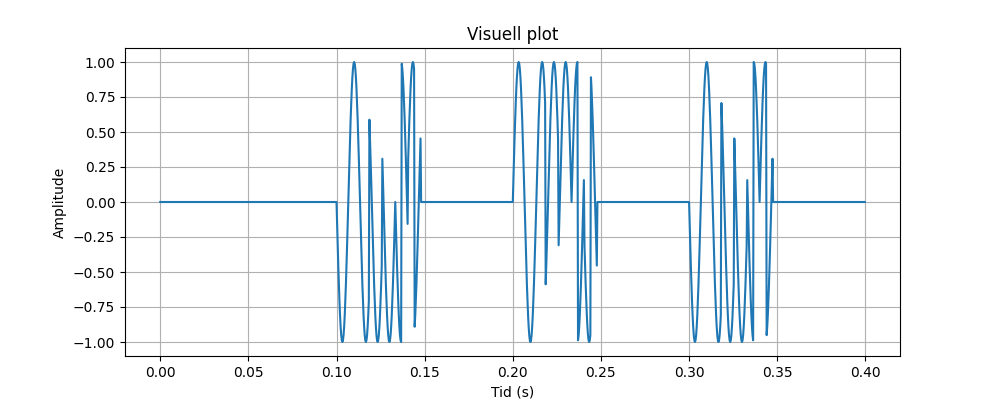
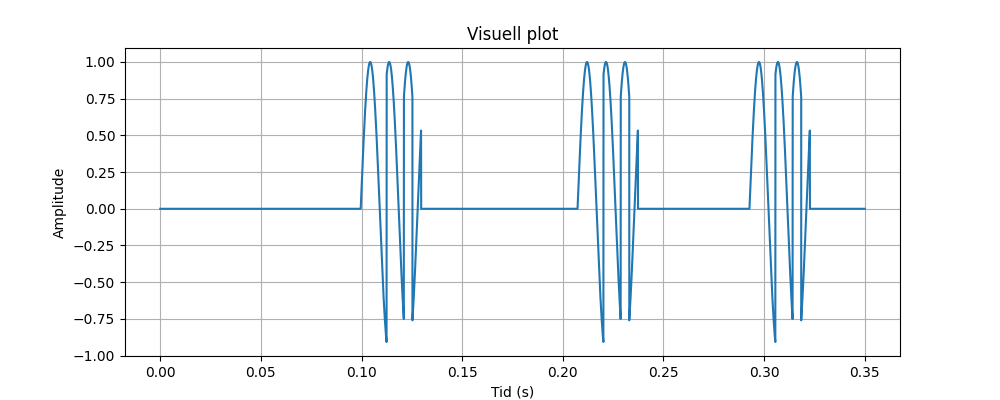
Har høyt sannsynlig fungerende jitter

diff --git a/mattefunksjoner.py b/mattefunksjoner.py
@@ -4,7 +4,7 @@ from scipy.signal import square
 from scipy.signal import chirp
 import random
 
-def globale_variabler(Fs,F,Pri,Prf,Dc,T,N):
+def globale_variabler(Fs,F,Pri,Prf,Dc,T,N,mønster):
     #setter global samplingsfrekvens
     global fs
     fs = Fs
@@ -59,34 +59,77 @@ def globale_variabler(Fs,F,Pri,Prf,Dc,T,N):
     global t
     t = np.arange(0, T, 1 / fs)
     
-    global barker_lengde
-    barker_lengde = 7
+    #Definerer varighet
+    global t_tot 
+    t_tot = T
+    
     
     global n 
     n = N
     
+    global m 
+    m = mønster
+    
+# #Funksjon som lager en helt standard sinusbølge
+# def sinus_bølge():
+#     # Genererer sinusbølge
+#     sinus_bølge = np.sin(2 * np.pi * f * t)
+#     #Returnerer den genererte sinusbølgen
+#     modulert_bølge = sinus_bølge * firkantpuls()
+#     return modulert_bølge
+
 #Funksjon som lager en helt standard sinusbølge
 def sinus_bølge():
-    # Genererer sinusbølge
-    sinus_bølge = np.sin(2 * np.pi * f * t)
-    #Returnerer den genererte sinusbølgen
-    modulert_bølge = sinus_bølge * firkantpuls()
-    return modulert_bølge
+    firkant_bølge = firkantpuls()  # Hent firkantpulsen for å styre aktivering
+    sinus_varighet = pwt  # Varigheten er det samme som tiden til en pulsbredde
+    
+    # Initier sinusbølgen
+    sinus_bølge = np.zeros_like(t)
+
+    # Finn starten av hver firkantpuls-syklus
+    syklus_starter = np.where(np.diff((firkant_bølge != 0).astype(int)) == 1)[0] + 1
+
+    # Iterer over hver syklus og generer sinus som starter på nytt
+    for start in syklus_starter:
+        slutt = start + int(sinus_varighet * fs)
+        slutt = min(slutt, len(t))  # Sørg for at vi ikke går utenfor tidsaksen
+        # Beregn tidsvinduet for sinus innenfor denne syklusen
+        lokal_t = t[:slutt - start] - t[start]
+        sinus_bølge[start:slutt] = np.sin(2 * np.pi * f * lokal_t)
+
+    return sinus_bølge
 
 #Funksjon som genererer en firkantpuls. Frekvens og duty cycle defineres av variablene i inputen. Hvis ingen 
 #ønskede verdier er gitt, settes det forhåndsdefinerte verdier.
 def firkantpuls():  
-    #Generering av firkantpuls. Frekvensen defineres av prf/pri, og duty cycle styres av ønsket verdi.
-    #Adderer med 1, og dividerer med 2 for å sette pulsen på 1 (på), og deretter 0 (av). 
-    #Dette for å kunne skru signalet av og på, og sende pulser.
-    firkantpuls = (square(2 * np.pi * f_firkant * t, duty=dc)+1)/2
+    if m == 'jitter':
+            # Beregn perioden og pulsbredden
+        jitter_prosent = 0.2    
+        
+        periode = 1 / f_firkant
+        puls_bredde = dc * periode
+
+        # Generer tidsvektor
+        t_lokal = np.linspace(0, t_tot, int(fs * t_tot), endpoint=False)
+
+        # Start- og sluttidspunkter for hver puls med jitter
+        start_tider = np.arange(0, t_tot, periode)
+        jitter = np.random.uniform(-jitter_prosent * periode, jitter_prosent * periode, size=len(start_tider))
+        start_tider_jittered = start_tider + jitter
+
+        # Generer firkantpuls
+        firkantpuls = np.zeros_like(t_lokal)
+        for start_tid in start_tider_jittered:
+            start_idx = int(start_tid * fs)
+            slutt_idx = int((start_tid + puls_bredde) * fs)
+            if start_idx < len(t_lokal):
+                firkantpuls[start_idx:slutt_idx] = 1
+    else:
+        firkantpuls = (square(2 * np.pi * f_firkant * t, duty=dc)+1)/2
+
+
     return firkantpuls
 
-def jitter():
-    print('Her skal det komme en jitterfunksjon')
-    
-def stagger():
-    print('Her skal det komme en staggerfunksjon')
 
 # Funksjon for en pulskodet bølge. Chirp bølge
 def chirp_bølge():
@@ -129,16 +172,12 @@ def barker_kode(n):
     return barker_sekvens[n]
 
 
-
-    return combined_wave
-
-# Funksjon som genererer et barker kodet signal
 def barker_bølge():
     barker_sekvens = barker_kode(n)  # Hent Barker-koden og lagrer en variant av den
     firkant_bølge = firkantpuls()  # Hent firkantpulsen for å styre aktivering
     barker_varighet = pwt  # Varigheten til en Barker-sekvens er lik en pulsbredde
                            # Samme tankegang som med Chirp
-
+                           
     # Initier Barker-signalet
     barker_bølge = np.zeros_like(t)
 
@@ -159,8 +198,43 @@ def barker_bølge():
             bit_slutt = min(bit_start + samples_per_bit, slutt)
             barker_bølge[bit_start:bit_slutt] = bit
 
-    barker_bølge = barker_bølge * sinus_bølge()
+        # Generer lokal sinusbølge som starter på nytt for hver firkantpuls-syklus
+        lokal_sinus_bølge = np.sin(2 * np.pi * f * (t[start:slutt] - t[start]))  # Tidsforskyvning for synkronisering
+
+        # Multiplicer barker_bølge med den lokale sinusbølgen
+        barker_bølge[start:slutt] = barker_bølge[start:slutt] * lokal_sinus_bølge
+
     return barker_bølge
+
+# # Funksjon som genererer et barker kodet signal
+# def barker_bølge():
+#     barker_sekvens = barker_kode(n)  # Hent Barker-koden og lagrer en variant av den
+#     firkant_bølge = firkantpuls()  # Hent firkantpulsen for å styre aktivering
+#     barker_varighet = pwt  # Varigheten til en Barker-sekvens er lik en pulsbredde
+#                            # Samme tankegang som med Chirp
+                           
+#     # Initier Barker-signalet
+#     barker_bølge = np.zeros_like(t)
+
+#     # Finn starten av hver firkantpuls-syklus. Firkantpulsen starter, eller er "på" når den ikke er 0
+#     syklus_starter = np.where(np.diff((firkant_bølge != 0).astype(int)) == 1)[0] + 1
+
+#     # Iterer over hver syklus og generer Barker-sekvensen
+#     for start in syklus_starter:
+#         slutt = start + int(barker_varighet * fs)
+#         slutt = min(slutt, len(t))  # Sørg for at vi ikke går utenfor tidsaksen
+
+#         # Beregn antall samples per Barker-bit
+#         samples_per_bit = (slutt - start) // n
+
+#         # Generer Barker-sekvens i dette tidsvinduet
+#         for i, bit in enumerate(barker_sekvens):
+#             bit_start = start + i * samples_per_bit
+#             bit_slutt = min(bit_start + samples_per_bit, slutt)
+#             barker_bølge[bit_start:bit_slutt] = bit
+
+#     barker_bølge = barker_bølge * sinus_bølge()
+#     return barker_bølge
 
 #Funksjon som plotter resultatet
 def plott_resultat(final_wave):

diff --git a/testdokuemnt.py b/testdokuemnt.py
@@ -1,0 +1,39 @@
+import numpy as np
+import matplotlib.pyplot as plt
+
+# Parametere for firkantpulsen
+fs = 1000  # Samplingsfrekvens (Hz)
+f = 5      # Firkantpulsens frekvens (Hz)
+dc = 0.2   # Duty cycle (andel tid signalet er "på")
+T = 1      # Total varighet (sekunder)
+jitter_percent = 0.2  # Jitter som prosentandel av perioden (10%)
+
+# Beregn perioden og pulsbredden
+periode = 1 / f
+puls_bredde = dc * periode
+
+# Generer tidsvektor
+t = np.linspace(0, T, int(fs * T), endpoint=False)
+
+# Start- og sluttidspunkter for hver puls med jitter
+start_tider = np.arange(0, T, periode)
+jitter = np.random.uniform(-jitter_percent * periode, jitter_percent * periode, size=len(start_tider))
+start_tider_jittered = start_tider + jitter
+
+# Generer firkantpuls
+firkantpuls = np.zeros_like(t)
+for start_tid in start_tider_jittered:
+    start_idx = int(start_tid * fs)
+    slutt_idx = int((start_tid + puls_bredde) * fs)
+    if start_idx < len(t):
+        firkantpuls[start_idx:slutt_idx] = 1
+
+# Plot firkantpulsen
+plt.figure(figsize=(10, 4))
+plt.plot(t, firkantpuls, label=f"Frekvens: {f} Hz, Duty cycle: {dc*100}% med jitter")
+plt.title("Firkantpuls med Jitter og Konstant Pulsbredde")
+plt.xlabel("Tid (s)")
+plt.ylabel("Amplitude")
+plt.grid(True)
+plt.legend()
+plt.show()

diff --git a/variablehenting.py b/variablehenting.py
@@ -83,10 +83,19 @@ def henter_variabler():
     else:
         print(f"Pulskoding angitt er {pk}")
         
-    if pk == 'barker':
-        n = variabler.get('n',2)
-        print(f"Sekvens til barker angitt er {n}. Ønskes annen sekvens skriv n = x")
-    
-            
-    
-    return Fs,f,pri,prf,dc,t,pk,n
+
+    n = variabler.get('n',0)
+    if n == 0:
+        n = 2
+        print(f"Sekvens til barker ikke angitt. Verdien settes til {n}")
+    else:
+        print(f"Sekvens til barker angitt er {n}")
+        
+    mønster = variabler.get('pattern',0)
+    if mønster == 0:
+        mønster = 'fixed'
+        print(f"PRI møsnter ikke angitt, settes til {mønster}")
+    else:
+        print(f"PRI mønster angitt er {mønster}")
+
+    return Fs,f,pri,prf,dc,t,pk,n,mønster

diff --git a/omstillingsprogram.py b/omstillingsprogram.py
@@ -4,9 +4,9 @@ import mattefunksjoner
 def main():
     #Kaller opp en funksjon som leser og separerer variabler fra en fil, variabler.txt
     #Denne funksjonen returnerer en rekke forskjellige variabler som skal benyttes senere.
-    Fs,f,pri,prf,dc,t,pk,n = variablehenting.henter_variabler()
+    Fs,f,pri,prf,dc,t,pk,n,mønster = variablehenting.henter_variabler()
     #Funksjon som legger alle variablene inn i selve matteprogrammet, som står for den faktiske omgjøringen
-    mattefunksjoner.globale_variabler(Fs,f,pri,prf,dc,t,n)
+    mattefunksjoner.globale_variabler(Fs,f,pri,prf,dc,t,n,mønster)
     #Genererer en sinusfunksjon basert på variablene som er hentet fra forrige funksjon 
     
     if pk == "ukodet":
